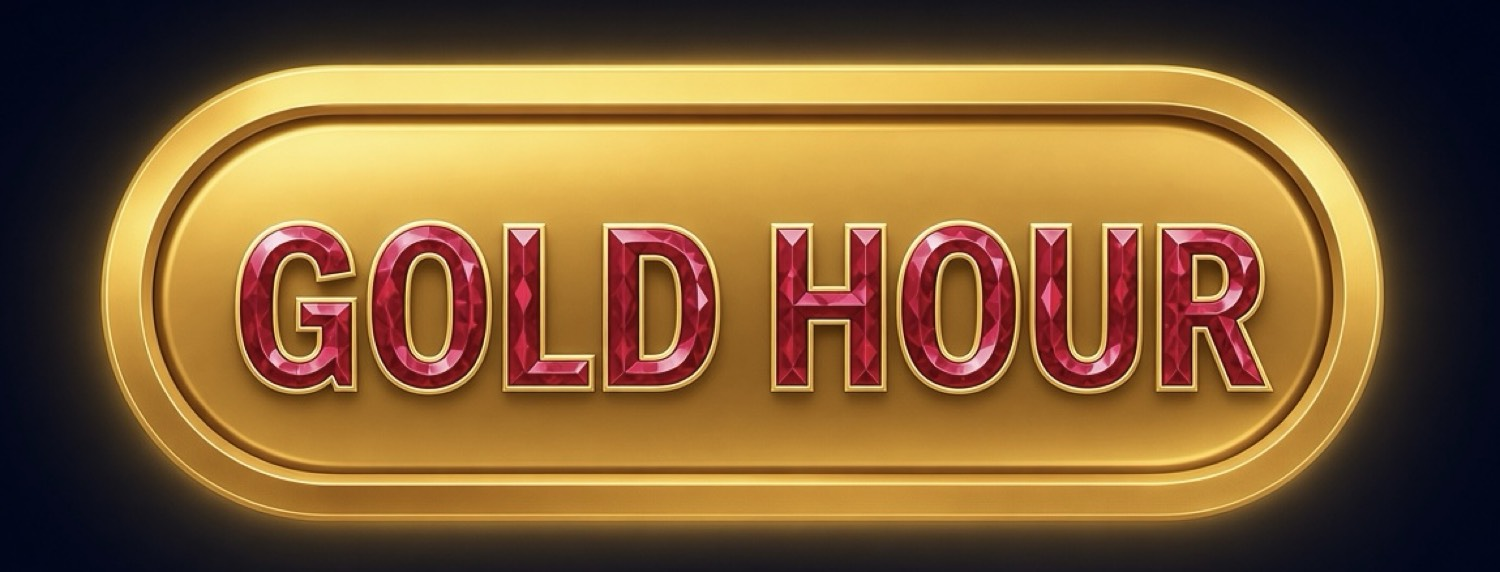
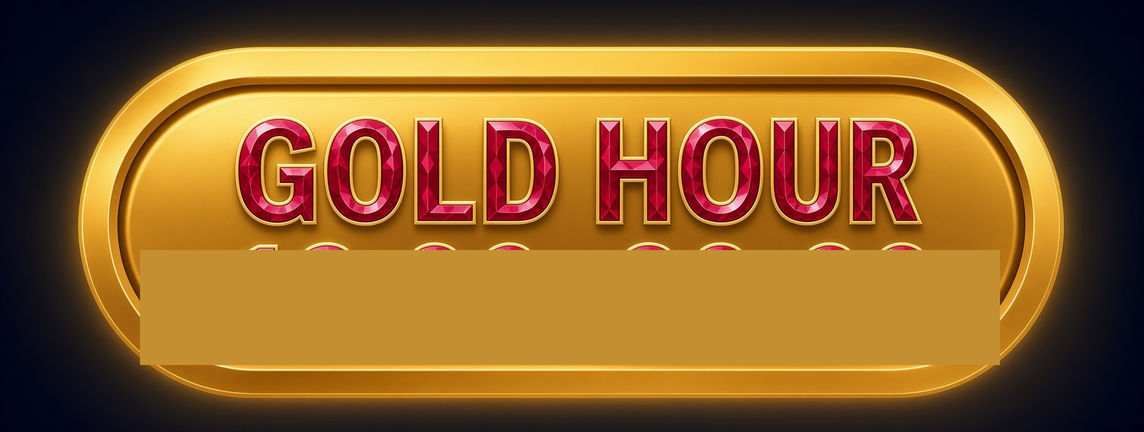
Add files via upload

diff --git a/index.html b/index.html
@@ -10,9 +10,9 @@
   <link rel="manifest" href="manifest.json"/>
   <link rel="preconnect" href="https://fonts.googleapis.com"/>
   <link href="https://fonts.googleapis.com/css2?family=Cinzel+Decorative:wght@700;900&family=Cinzel:wght@600;700&display=swap" rel="stylesheet"/>
-  <link rel="stylesheet" href="style.css?v=232.0.0"/>
+  <link rel="stylesheet" href="style.css?v=235.0.0"/>
   <script src="https://cdnjs.cloudflare.com/ajax/libs/three.js/r134/three.min.js" defer></script>
-  <script src="moon.js?v=232.0.0" defer></script>
+  <script src="moon.js?v=235.0.0" defer></script>
 </head>
 <body>
 <div class="app">
@@ -46,8 +46,8 @@
     <!-- HERO: sun full-bleed background -->
     <section class="card hero">
             <div class="hero-bg">
-        <img src="hero_plate_day.jpg?v=232.0.0" alt="" class="hero-base-img" id="hero-plate-a"/>
-        <img src="hero_plate_day.jpg?v=232.0.0" alt="" class="hero-base-img hero-plate-b" id="hero-plate-b"/>
+        <img src="hero_plate_day.jpg?v=235.0.0" alt="" class="hero-base-img" id="hero-plate-a"/>
+        <img src="hero_plate_day.jpg?v=235.0.0" alt="" class="hero-base-img hero-plate-b" id="hero-plate-b"/>
         <div class="hero-sky-tint" id="hero-sky-tint" hidden></div>
         <div class="hero-stars" id="hero-stars" aria-hidden="true" hidden></div>
         <div class="hero-sun" id="hero-sun" aria-hidden="true" hidden></div>
@@ -129,7 +129,7 @@
         <div class="sec-title"><i class="dot"></i> ΦΑΣΗ ΣΕΛΗΝΗΣ</div>
         <div class="moon-body">
           <div class="moon-disc moon-glow" id="moon-disc">
-            <img id="moon-img" class="moon-img" src="moon_full.png?v=232.0.0" alt="" width="100" height="100"/>
+            <img id="moon-img" class="moon-img" src="moon_full.png?v=235.0.0" alt="" width="100" height="100"/>
             <div class="moon-lit" id="moon-lit"></div>
             <div class="moon-shade" id="moon-shade"></div>
           </div>
@@ -140,12 +140,12 @@
         </div>
         <div class="moon-times">
           <div class="moon-time">
-            <img class="mt-crescent" src="crescent_rise.png?v=232.0.0" alt=""/>
+            <img class="mt-crescent" src="crescent_rise.png?v=235.0.0" alt=""/>
             <span class="mt-lab">↑ Ανατολή</span>
             <strong id="moon-rise" class="mt-hour">—</strong>
           </div>
           <div class="moon-time">
-            <img class="mt-crescent" src="crescent_set.png?v=232.0.0" alt=""/>
+            <img class="mt-crescent" src="crescent_set.png?v=235.0.0" alt=""/>
             <span class="mt-lab">↓ Δύση</span>
             <strong id="moon-set" class="mt-hour">—</strong>
           </div>
@@ -227,9 +227,9 @@
         <div class="sec-title score-title"><i class="dot"></i> FISHING SCORE</div>
         <div class="score-wrap" id="score-wrap">
           <div class="score-dial" id="score-dial">
-            <img class="score-gauge-bg" src="score_gauge_bg.jpg?v=232.0.0" alt=""/>
+            <img class="score-gauge-bg" src="score_gauge_bg.jpg?v=235.0.0" alt=""/>
             <div class="score-pivot" id="score-pivot">
-              <img class="score-rod-live" id="score-rod-arm" src="score_rod_layer.png?v=232.0.0" alt=""/>
+              <img class="score-rod-live" id="score-rod-arm" src="score_rod_layer.png?v=235.0.0" alt=""/>
             </div>
           </div>
           <div class="score-meta" id="score-meta">
@@ -249,7 +249,7 @@
         <section class="card activity-card">
           <div class="sec-title"><i class="dot"></i> FISH ACTIVITY</div>
           <div class="activity-body">
-            <img class="activity-panel" id="activity-panel" src="activity_body.jpg?v=232.0.0" alt=""/>
+            <img class="activity-panel" id="activity-panel" src="activity_body.jpg?v=235.0.0" alt=""/>
             <div class="activity-bar-slot" id="activity-bar-wrap">
               <svg class="activity-svg" viewBox="0 0 200 14" preserveAspectRatio="none" aria-hidden="true">
                 <defs>
@@ -281,7 +281,7 @@
         <section class="card zone-card zone-card-h">
           <div class="sec-title"><i class="dot"></i> ΖΩΝΗ</div>
           <div class="zone-body">
-            <div class="zone-map-wrap"><img class="zone-map zone-map-fill" src="zone_map.png?v=232.0.0" alt="Χάρτης"/><div id="zone-pin" class="zone-pin" aria-hidden="true"></div></div>
+            <div class="zone-map-wrap"><img class="zone-map zone-map-fill" src="zone_map.png?v=235.0.0" alt="Χάρτης"/><div id="zone-pin" class="zone-pin" aria-hidden="true"></div></div>
             <div class="zone-info">
               <div class="zone-label">Βέλτιστη ζώνη</div>
               <div class="zone-place" id="zone-place">📍 Κάλυμνος · Νότια άκρη · 2–4μ</div>
@@ -432,8 +432,8 @@
     <button class="nav-item" data-nav="settings" type="button"><span>⚙</span>ΡΥΘΜΙΣΕΙΣ</button>
   </nav>
 </div>
-<script src="data.js?v=232.0.0"></script>
-<script src="app.js?v=232.0.0"></script>
+<script src="data.js?v=235.0.0"></script>
+<script src="app.js?v=235.0.0"></script>
 
 <div id="widget-modal" class="widget-modal" hidden>
   <div class="widget-modal-backdrop" id="widget-modal-backdrop"></div>

diff --git a/style.css b/style.css
@@ -6448,3 +6448,48 @@ button.best-chip.gold-hour,
   color: #ffd9de !important;
   border-color: #e8c36a !important;
 }
+
+
+/* ===== v235 GOLD HOUR locked plate + tiny hours · SCORE gems ===== */
+html body #best-line button.best-chip.gold-hour,
+html body button.best-chip.gold-hour {
+  position: relative !important;
+  background-color: transparent !important;
+  background-image: url("gold_hour_plate.png?v=235") !important;
+  background-repeat: no-repeat !important;
+  background-position: center center !important;
+  background-size: contain !important;
+  border: 0 !important;
+  box-shadow: none !important;
+  filter: drop-shadow(0 0 10px rgba(232,185,35,.35));
+  width: min(260px, 92%) !important;
+  height: 78px !important;
+  min-height: 78px !important;
+  max-height: 78px !important;
+  padding: 0 22px 12px !important;
+  display: inline-flex !important;
+  flex-direction: column !important;
+  justify-content: flex-end !important;
+  align-items: center !important;
+  overflow: hidden !important;
+  border-radius: 0 !important;
+}
+html body #best-line button.best-chip.gold-hour .gh-title { display: none !important; }
+html body #best-line button.best-chip.gold-hour .gh-time {
+  display: flex !important; flex-wrap: nowrap !important;
+  align-items: center !important; justify-content: center !important;
+  height: 16px !important; max-height: 16px !important; overflow: hidden !important;
+  margin: 0 !important; padding: 0 !important; font-size: 0 !important; line-height: 0 !important;
+  background: none !important; color: transparent !important;
+}
+html body #best-line button.best-chip.gold-hour img.gh-d {
+  height: 15px !important; width: auto !important; max-height: 15px !important; max-width: 12px !important;
+  flex: 0 0 auto !important; display: inline-block !important; object-fit: contain !important;
+  margin: 0 !important; padding: 0 !important; border: 0 !important;
+}
+#score-stars { display:flex !important; justify-content:space-evenly !important; align-items:center !important; width:100% !important; height:28px !important; margin:4px 0 2px !important; font-size:0 !important; color:transparent !important; }
+#score-stars img.sc-star { height:26px !important; width:26px !important; object-fit:contain !important; }
+#score-num { display:flex !important; justify-content:center !important; align-items:flex-end !important; gap:2px !important; min-height:54px !important; font-size:0 !important; color:transparent !important; -webkit-text-stroke:0 !important; text-shadow:none !important; }
+#score-num img.sc-d { height:52px !important; width:auto !important; max-height:52px !important; object-fit:contain !important; }
+#score-lab { display:flex !important; justify-content:center !important; min-height:28px !important; font-size:0 !important; color:transparent !important; -webkit-text-stroke:0 !important; text-shadow:none !important; }
+#score-lab img.sc-labimg { height:26px !important; width:auto !important; max-width:100% !important; object-fit:contain !important; }

diff --git a/app.js b/app.js
@@ -44,15 +44,31 @@ function __notifyMoon(pct, phaseTxt) {
   function $(id) { return document.getElementById(id); }
 
   function rubyHours(str) {
-    str = String(str || "").replace(/[–—]/g, "-").replace(/\s/g, "");
-    var map = { "0":"0","1":"1","2":"2","3":"3","4":"4","5":"5","6":"6","7":"7","8":"8","9":"9",":":"colon","-":"dash" };
+    str = String(str || "").replace(/[\u2013\u2014]/g, "-").replace(/\s/g, "");
+    var map = { "0":"sc-0","1":"sc-1","2":"sc-2","3":"sc-3","4":"sc-4","5":"sc-5","6":"sc-6","7":"sc-7","8":"sc-8","9":"sc-9",":":"ruby-colon","-":"ruby-dash" };
     return str.split("").map(function (ch) {
       var f = map[ch];
       if (!f) return "";
-      return '<img class="gh-d" alt="'+ch+'" src="ruby-'+f+'.png">';
+      return '<img class="gh-d" alt="'+ch+'" src="'+f+'.png?v=235" style="height:15px;width:auto;max-height:15px;max-width:12px">';
     }).join("");
   }
-
+  function gemNum(n) {
+    var s = String(Math.max(0, Math.min(99, n|0)));
+    return s.split("").map(function (ch) {
+      return '<img class="sc-d" alt="'+ch+'" src="sc-'+ch+'.png?v=235" style="height:52px;width:auto;max-height:52px">';
+    }).join("");
+  }
+  function gemStars(st) {
+    st = Math.max(1, Math.min(5, st|0));
+    var h = "";
+    for (var i = 1; i <= 5; i++) h += '<img class="sc-star" alt="" src="'+(i<=st?"star_on":"star_off")+'.png?v=235">';
+    return h;
+  }
+  function gemLab(lab) {
+    var map = {"Κακή":"1","Μέτρια":"2","Καλή":"3","Πολύ καλή":"4","Ιδανική":"5"};
+    var k = map[String(lab||"")] || "3";
+    return '<img class="sc-labimg" alt="'+lab+'" src="sc-lab-'+k+'.png?v=235">';
+  }
 
   function setStatus(msg, isErr) {
     var el = $("data-status");
@@ -856,12 +872,9 @@ function __notifyMoon(pct, phaseTxt) {
   var __previewHour = null; /* null = live now */
   function applyScoreActivity(sc, previewLabel) {
     if (!sc) return;
-    if ($("score-num")) $("score-num").textContent = sc.score;
-    if ($("score-lab")) $("score-lab").textContent = sc.label || "";
-    if ($("score-stars")) {
-      var st = sc.stars || 1;
-      $("score-stars").textContent = "★★★★★".slice(0, st) + "☆☆☆☆☆".slice(st);
-    }
+    if ($("score-num")) $("score-num").innerHTML = gemNum(sc.score);
+    if ($("score-lab")) $("score-lab").innerHTML = gemLab(sc.label || "Καλή");
+    if ($("score-stars")) $("score-stars").innerHTML = gemStars(sc.stars || 1);
     if (typeof animateScoreRod === "function") animateScoreRod(sc.score);
     else if (typeof setRodAngle === "function") setRodAngle(sc.score, false);
     var ap = sc.activity;
